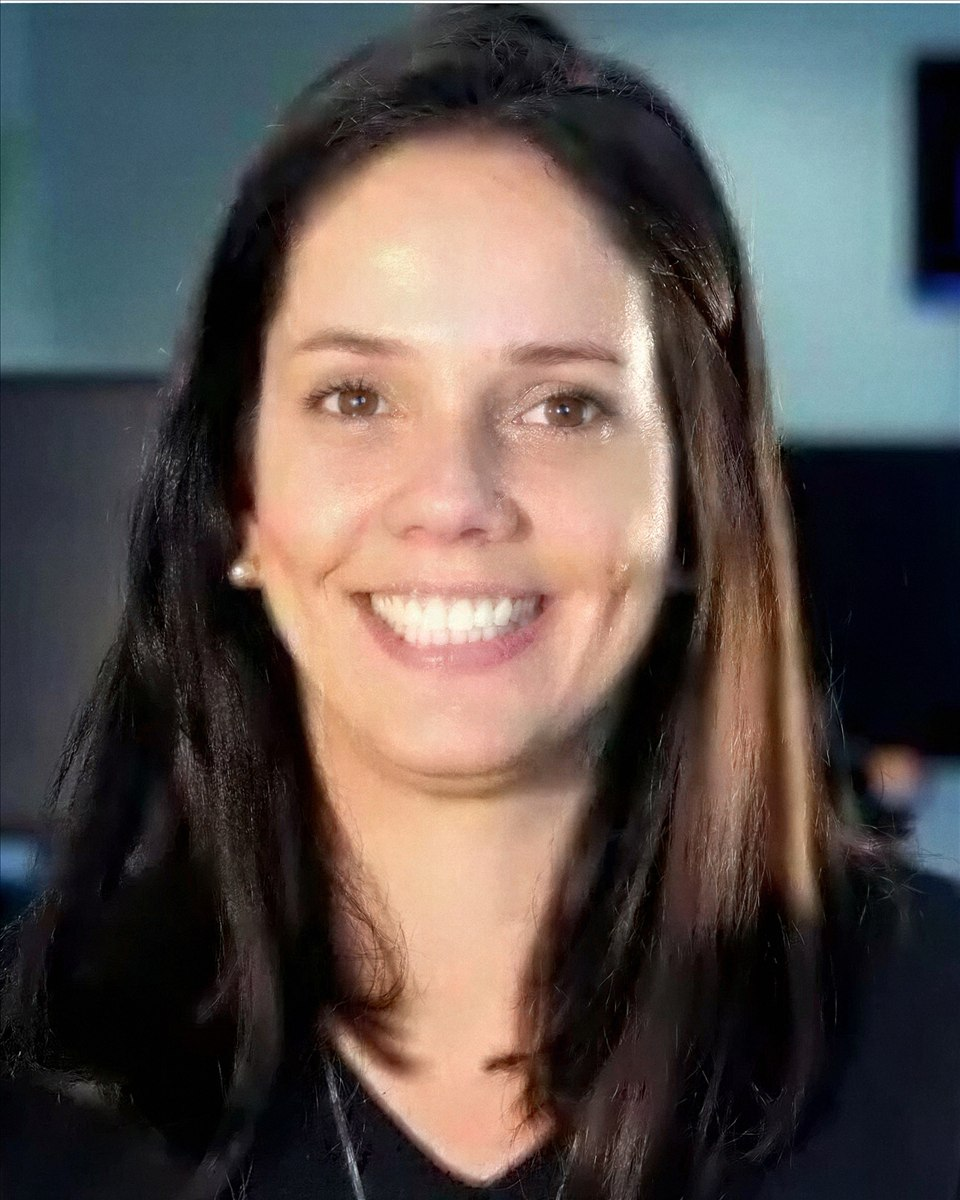
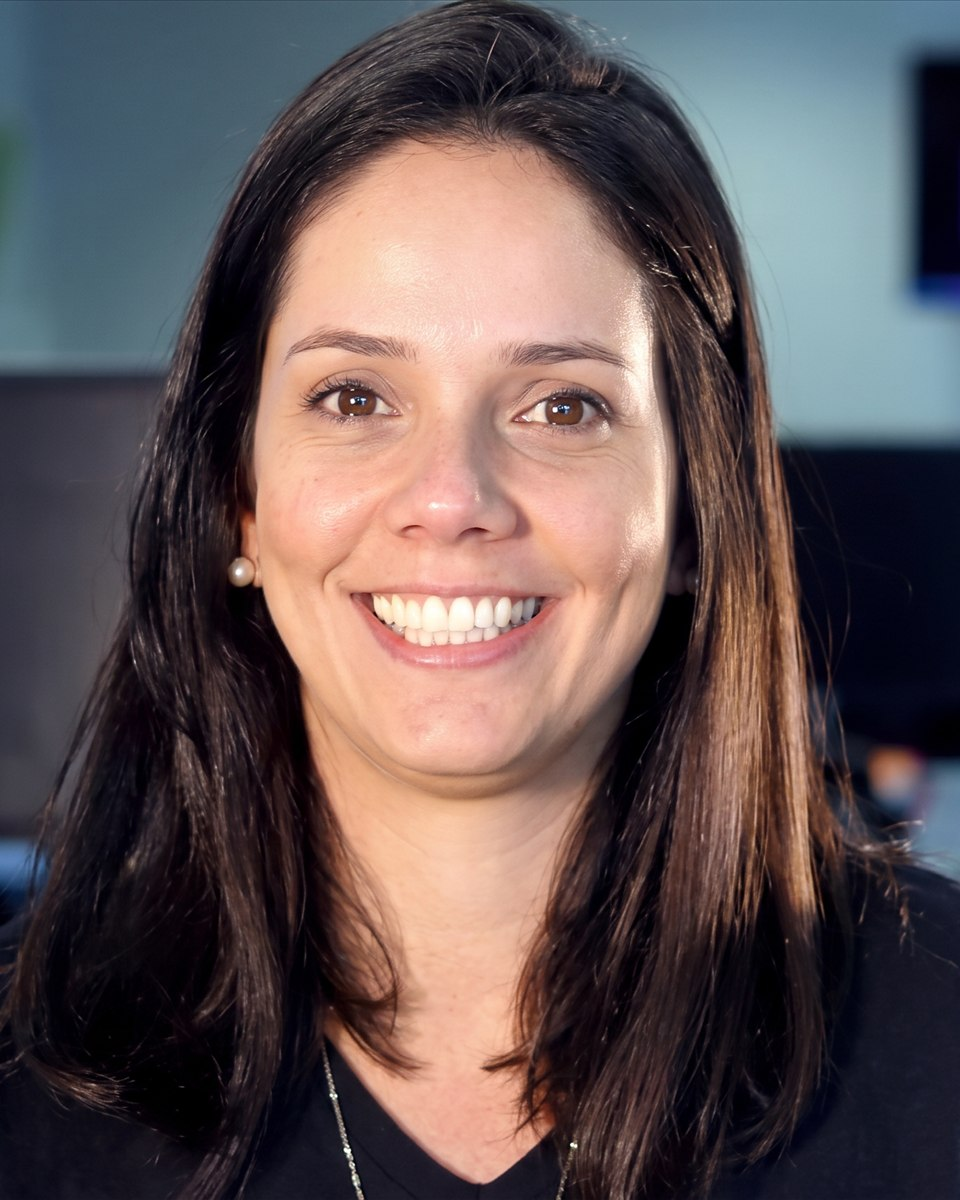
Instrutores: foto da Loren Monteiro restaurada (aprovada)

diff --git a/formacao-product-manager.html b/formacao-product-manager.html
@@ -217,7 +217,7 @@
       <figure class="prof"><div class="ph"><img src="assets/people/camila-lopes.jpg?v=3" alt="Foto de Camila Lopes" loading="lazy" width="480" height="600"><span class="co co-logo"><img src="assets/logos/nubank.svg" alt="Nubank" style="height:15px"></span></div><figcaption><b>Camila Lopes</b><span>Senior Product Lead</span></figcaption></figure>
       <figure class="prof"><div class="ph"><img src="assets/people/pedro-axelrud.jpg?v=3" alt="Foto de Pedro Axelrud" loading="lazy" width="480" height="600"><span class="co co-logo"><img src="assets/logos/nubank.svg" alt="Nubank" style="height:15px"></span></div><figcaption><b>Pedro Axelrud</b><span>Product Director</span></figcaption></figure>
       <figure class="prof"><div class="ph"><img src="assets/people/maria-luisa-cantadori.jpg?v=3" alt="Foto de Maria Luisa Cantadori" loading="lazy" width="480" height="600"><span class="co co-logo"><img src="assets/logos/stripe.svg" alt="Stripe" style="height:20px"></span></div><figcaption><b>Maria Luisa Cantadori</b><span>Senior Product Manager</span></figcaption></figure>
-      <figure class="prof"><div class="ph"><img src="assets/people/loren-monteiro.jpg?v=3" alt="Foto de Loren Monteiro" loading="lazy" width="480" height="600"><span class="co">Adevinta</span></div><figcaption><b>Loren Monteiro</b><span>CPO Adevinta Benelux</span></figcaption></figure>
+      <figure class="prof"><div class="ph"><img src="assets/people/loren-monteiro.jpg?v=4" alt="Foto de Loren Monteiro" loading="lazy" width="480" height="600"><span class="co">Adevinta</span></div><figcaption><b>Loren Monteiro</b><span>CPO Adevinta Benelux</span></figcaption></figure>
       <figure class="prof"><div class="ph"><img src="assets/people/bianca-santa-cruz.jpg?v=3" alt="Foto de Bianca Santa Cruz" loading="lazy" width="480" height="600"><span class="co">Grupo Boticário</span></div><figcaption><b>Bianca Santa Cruz</b><span>Head of Product</span></figcaption></figure>
       <figure class="prof"><div class="ph"><img src="assets/people/rodrigo-iannuzzi.jpg?v=2" alt="Foto de Rodrigo Iannuzzi" loading="lazy" width="480" height="600"><span class="co co-logo"><img src="assets/logos/picpay.svg" alt="PicPay" style="height:16px"></span></div><figcaption><b>Rodrigo Iannuzzi</b><span>Gerente Executivo, Novos Produtos PJ</span></figcaption></figure>
       <figure class="prof"><div class="ph"><img src="assets/people/marcela-schlaepfer.jpg?v=3" alt="Foto de Marcela Schlaepfer" loading="lazy" width="480" height="600"><span class="co">VTEX</span></div><figcaption><b>Marcela Schlaepfer</b><span>Director of Tech Planning &amp; Operations</span></figcaption></figure>
